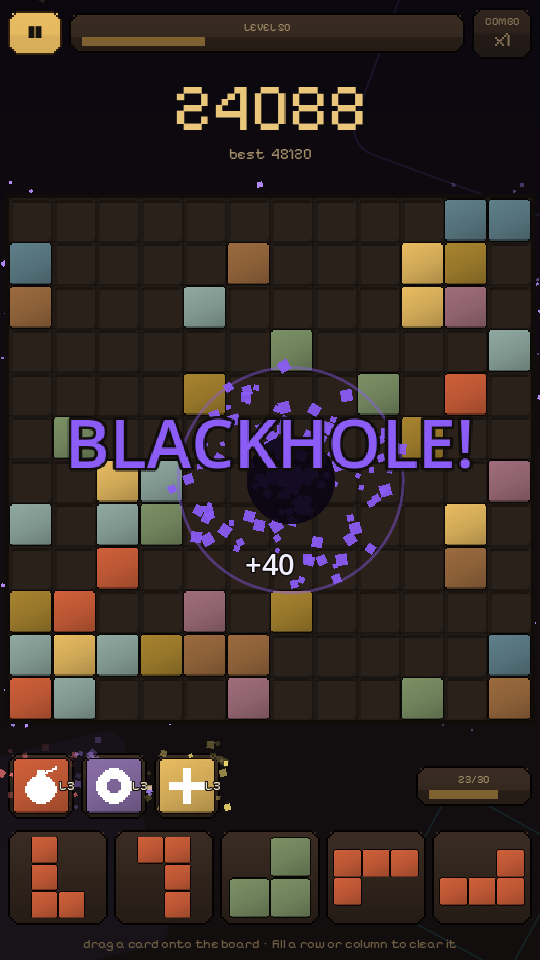
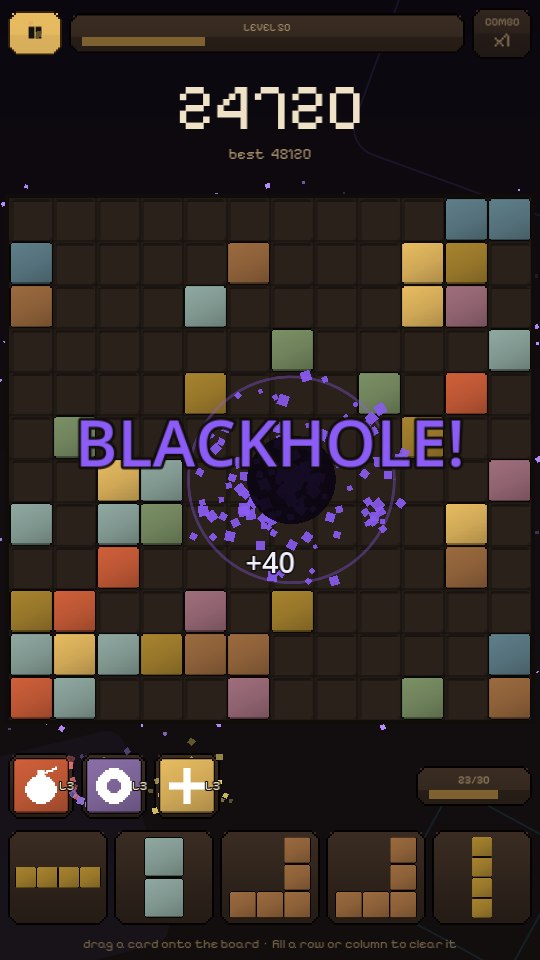
Add a store screenshot harness, and render at device resolution
tools/shots.tscn renders the seven marketing shots at any device size.
Three sets committed: the 6.9" slot Apple requires (1320x2868), the 6.5"
one (1284x2778), and the 540x960 set the README uses.

The obvious approach does not work and fails quietly. macOS clamps a
window to the screen, so asking for 1320x2868 on a 1920x1080 display
gives a 1320x1018 window, and the stretch system then lays the game out
LANDSCAPE -- while Movie Maker keeps writing files at the size that was
asked for. The result is a correctly named, correctly sized file with the
HUD cut off and the board clipped. Neither --resolution nor
window_set_size avoids it, and override.cfg changes the file size without
changing the layout.

So the harness renders into a SubViewport sized to the device, with
size_2d_override set to the design-space equivalent and
size_2d_override_stretch on -- which is what a device actually does:
native render resolution, UI laid out in design units. The override is
derived the way canvas_items/expand derives it, scale = min(w/1080,
h/1920), so on anything taller than 9:16 the extra height becomes extra
board rather than letterbox. --write-movie is still passed, but only to
force a deterministic render loop; its output is discarded.

Two faults no assertion would have caught, both fixed after looking:
the score is a rolling counter, so an early grab showed a number that was
never the score; and images must carry no alpha channel, so they are
converted to RGB8 before saving.
[…]

diff --git a/docs/testing.md b/docs/testing.md
@@ -124,3 +124,44 @@ A backgrounded window has its rendering suspended by macOS, so `get_viewport().g
 ```
 
 Frames are named `f00000000.png`. The game auto-pauses on focus loss (see `_notification` in `game.gd`), so a capture harness must force `%PausePanel.hide()` each frame.
+
+### Store screenshots
+
+`tools/shots.tscn` renders the seven marketing shots at any device resolution:
+
+```bash
+"$GODOT" --path . res://tools/shots.tscn \
+    --write-movie /tmp/discard/f.png --fixed-fps 60 --disable-vsync \
+    -- 1320x2868 res://screenshots/store/iphone-6.9-1320x2868
+```
+
+The movie output is **thrown away**. `--write-movie` is passed only because it
+is the one thing that forces a deterministic render loop; the harness saves its
+own PNGs from a SubViewport.
+
+**Do not try to get the size by resizing the window.** macOS clamps a window to
+the screen, so asking for 1320x2868 on a 1920x1080 display gives a 1320x1018
+window — and the stretch system then lays the game out **landscape**. Movie
+Maker still writes files at the size you asked for, so you get plausible-looking
+files with the HUD cut off and the board clipped. Neither `--resolution` nor
+`DisplayServer.window_set_size` avoids this; `override.cfg` changes the file
+size but not the layout.
+
+The harness instead renders into a `SubViewport` sized to the device, with
+`size_2d_override` set to the design-space equivalent and
+`size_2d_override_stretch` on. That is exactly what a device does: native
+render resolution, UI laid out in design units. The override is derived the way
+`canvas_items`/`expand` derives it — `scale = min(w/1080, h/1920)`, which for
+anything taller than 9:16 is the width, so the extra height becomes extra board
+rather than letterboxing.
+
+Two things that are invisible in an assertion and were both wrong on the first
+pass: the score is a **rolling counter**, so a shot taken too early shows a
+number that was never the score (the harness calls `reset_to()`), and a wiped
+profile has **seen no coach hints**, which puts a tutorial line under a
+veteran's board.
+
+Apple requires the **6.9-inch** slot (1320x2868); everything smaller is scaled
+from it automatically, and 6.5 inch (1284x2778) is only needed when 6.9 inch is
+absent. Screenshots must carry **no alpha channel**, so the harness converts to
+`FORMAT_RGB8` before saving.
